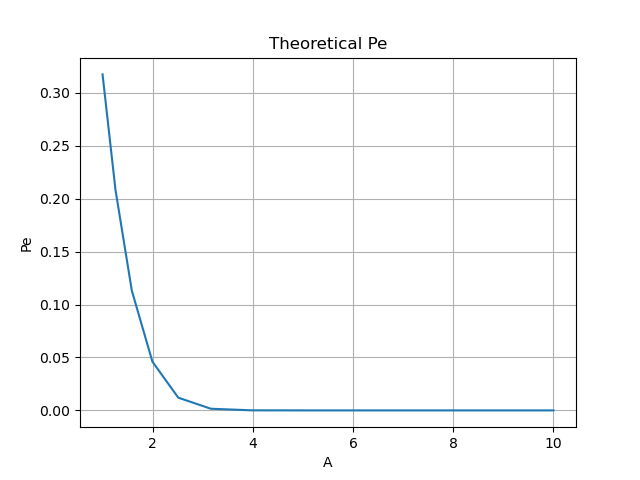
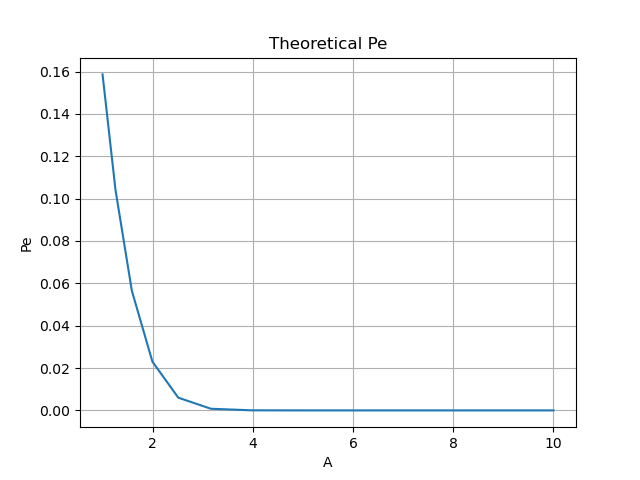
upload

diff --git a/Module-II/Digital_Comm/7.1/7_1.tex b/Module-II/Digital_Comm/7.1/7_1.tex
@@ -134,22 +134,22 @@ P_{e|0}& = \pr{\hat{X} = -1|X=1}&    \nonumber
 \item Find $P_e$ assuming that $X$ has equiprobable symbols.
 \\
 \begin{equation}
-P_e = P_{e|0}+P_{e|1}          
+P_e = P(0)P_{e|0}+P(1)P_{e|1}          
 \end{equation} 
 Since $X$ has equiprobable symbols.
 \\
 \begin{equation}
-P_{e|0} = P_{e|1}          
+P_{e|0} = P_{e|1} = Q(A)        
 \end{equation} 
 Now,
 \begin{align}
-P_e &= P_{e|0}+P_{e|1}&
+P_e &= \frac{1}{2}P_{e|0}+\frac{1}{2}P_{e|1}&
 \\
-&=2P_{e|1}=2P_{e|0}& 
+&=P_{e|1}=P_{e|0}& 
 \end{align}
-From eq.($\ref{eq:9}$) and eq.($\ref{eq:12}$)
+From eq.($\ref{eq:9}$)
 \begin{equation}
-P_e=2Q(A)=2Q(-A)
+P_e=Q(A)
 \end{equation}
 \\
 \item Verify by plotting  the theoretical $P_e$ with respect to $A$ from 0 to 10 dB.

diff --git a/Module-II/Digital_Comm/7.1/Code/7_1_7.py b/Module-II/Digital_Comm/7.1/Code/7_1_7.py
@@ -13,7 +13,7 @@ A = 10**(A_dB/10)
 #print(A)
 
 
-Pe = 2 * Q(A)
+Pe =  Q(A)
 
 # Plot Pe
 plt.plot(A, Pe)
